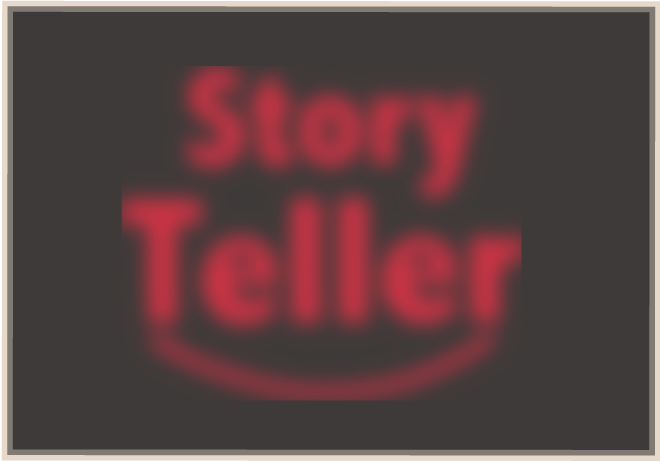
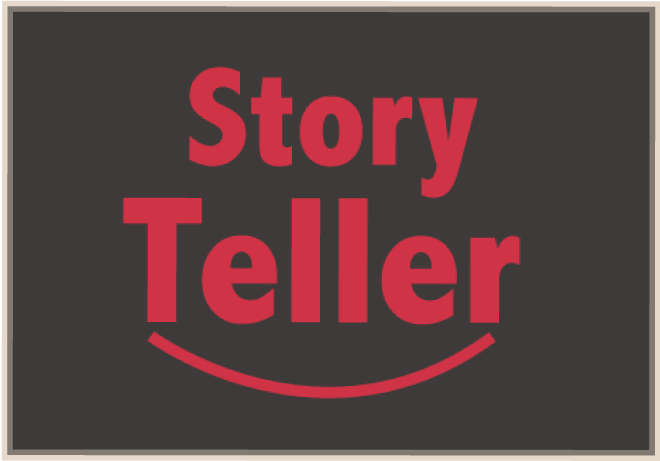
fix

Changed region(s): [[0.1818, 0.1215, 0.7879, 0.8807]]

diff --git a/about_us.html b/about_us.html
@@ -24,7 +24,7 @@
 <body>
     <div class = "container-fluid" >
         <img id = "pic-rec" class = "center-block" src = "./images/elements/rec.png" height = "235px"></img>
-        <img id = "pic-logo" class = "center-block" src = "./images/elements/story-teller-font.png"height = "190px"></img>
+        <a id = "pic-logo" href = "index.html"><img class = "center-block" src = "./images/elements/story-teller-font.png"height = "190px"></img></a>
         <ul class="ch-grid center-block" id = "chi-grid" width = "418px">
             <li >
                 <div class="ch-item">               
@@ -77,7 +77,7 @@
                         <div class="ch-info-front ch-img-5"></div>
                         <div class="ch-info-back" id = "ch-info-back-green">
                             <h3>林簡民 &nbsp;<span> 資訊 105</span></h3>
-                            <p>「我 APP 超強。」<a href="https://www.facebook.com/jian.min.75?fref=grp_mmbr_list" target = "_blank">View on Facboook</a></p>
+                            <p>「在教會電腦之前也許不算真的學會。」<a href="https://www.facebook.com/jian.min.75?fref=grp_mmbr_list" target = "_blank">View on Facboook</a></p>
                         </div>  
                     </div>
                 </div>
@@ -99,7 +99,7 @@
                         <div class="ch-info-front ch-img-7"></div>
                         <div class="ch-info-back" id = "ch-info-back-green">
                             <h3>朱紹帆 &nbsp;<span> 工設 106</span></h3>
-                            <p>「22歲，鮮肉，18cm，台南，有大B，有點裝，不服來戰。」<a href="https://www.facebook.com/profile.php?id=100001709556281&fref=grp_mmbr_list" target = "_blank">View on Facebook</a></p>
+                            <p>「老師對不起我走錯教室了。」<a href="https://www.facebook.com/profile.php?id=100001709556281&fref=grp_mmbr_list" target = "_blank">View on Facebook</a></p>
                         </div>  
                     </div>
                 </div>

diff --git a/css/about_us.css b/css/about_us.css
@@ -26,7 +26,7 @@ ul {
 
 }
 
-#pic-logo{
+#pic-logo img{
 	position: relative;
 	top:20px;
 	z-index: 3;
@@ -238,7 +238,7 @@ ul {
 }
 
 #ch-info-back-white p{
-	border-top: 1px solid rgba(10,30,20,0.5);
+	border-top: 2px solid rgba(10,30,20,0.5);
 }
 
 .ch-info #ch-info-back-green{
@@ -248,7 +248,7 @@ ul {
 }
 
 #ch-info-back-green p{
-	border-top: 1px solid rgba(230,250,249,0.5);
+	border-top: 2px solid rgba(230,250,249,0.5);
 }
 
 #ch-info-back-white p a {
@@ -305,10 +305,10 @@ ul {
 .ch-info h3 {
 	text-transform: uppercase;
 	letter-spacing: 2px;
-	font-size: 24px;
-	margin: 0 15px;
-	padding: 60px 0 0 0;
-	height: 110px;
+	font-size: 27px;
+	margin: 0 30px;
+	padding: 40px 0 0 0;
+	height: 95px;
 	font-family: 'Open Sans', Arial, sans-serif;
 	text-shadow: 
 		0 0 1px #fff, 
@@ -316,11 +316,15 @@ ul {
 }
 
 .ch-info h3 span{
-	font-size: 14px;
+	position: absolute;
+	right:25px;
+	top:25px;
+
+	font-size: 18px;
 }
 
 .ch-info p {
-	padding: 10px 5px;
+	padding: 10px 4px;
 	font-style: italic;
 	margin: 0 30px;
 	font-size: 16px;
@@ -328,14 +332,16 @@ ul {
 
 .ch-info p a {
 	display: block;
-	color: rgba(10,20,30,0.7);
+	color: rgba(252,248,227,0.7);
 	font-style: normal;
 	font-weight: 700;
 	text-transform: uppercase;
 	font-size: 9px;
 	letter-spacing: 1px;
-	padding-top: 12px;
 	font-family: 'Open Sans', Arial, sans-serif;
+	position: absolute;
+	bottom: 25px;
+	left: 40px;
 }
 
 .ch-info p a:hover {

diff --git a/js/index.js b/js/index.js
@@ -4,15 +4,17 @@ $('#camera_btn').animate({top:305}, 500 );
 
 $('#camera_btn').on('mouseover',function(){
 	$('#camera_in').css("opacity",1);
+	$('#camera_in img').animo('blur', {duration :0.7 , amount:5});
+
 	$('#camera_btn').attr("src" , "./images/elements/btn2.png");
-	$('#camera_in').animo('blur' ,{duration: 0.3, amount: 30});
 });
 
 $('#camera_btn').on('mouseout',function(){
 	$('#camera_in').css("opacity",1);
+	$('#camera_in img').animo('focus');
+
 	$('#camera_btn').animo({animation: "spinner", duration: 0.2 , iterate: 3});
 	$('#camera_btn').attr("src" , "./images/elements/btn1.png");
-	$('#camera_in').animo('focus');
 });
 
 $('#camera_in').on('mouseover',function(){
